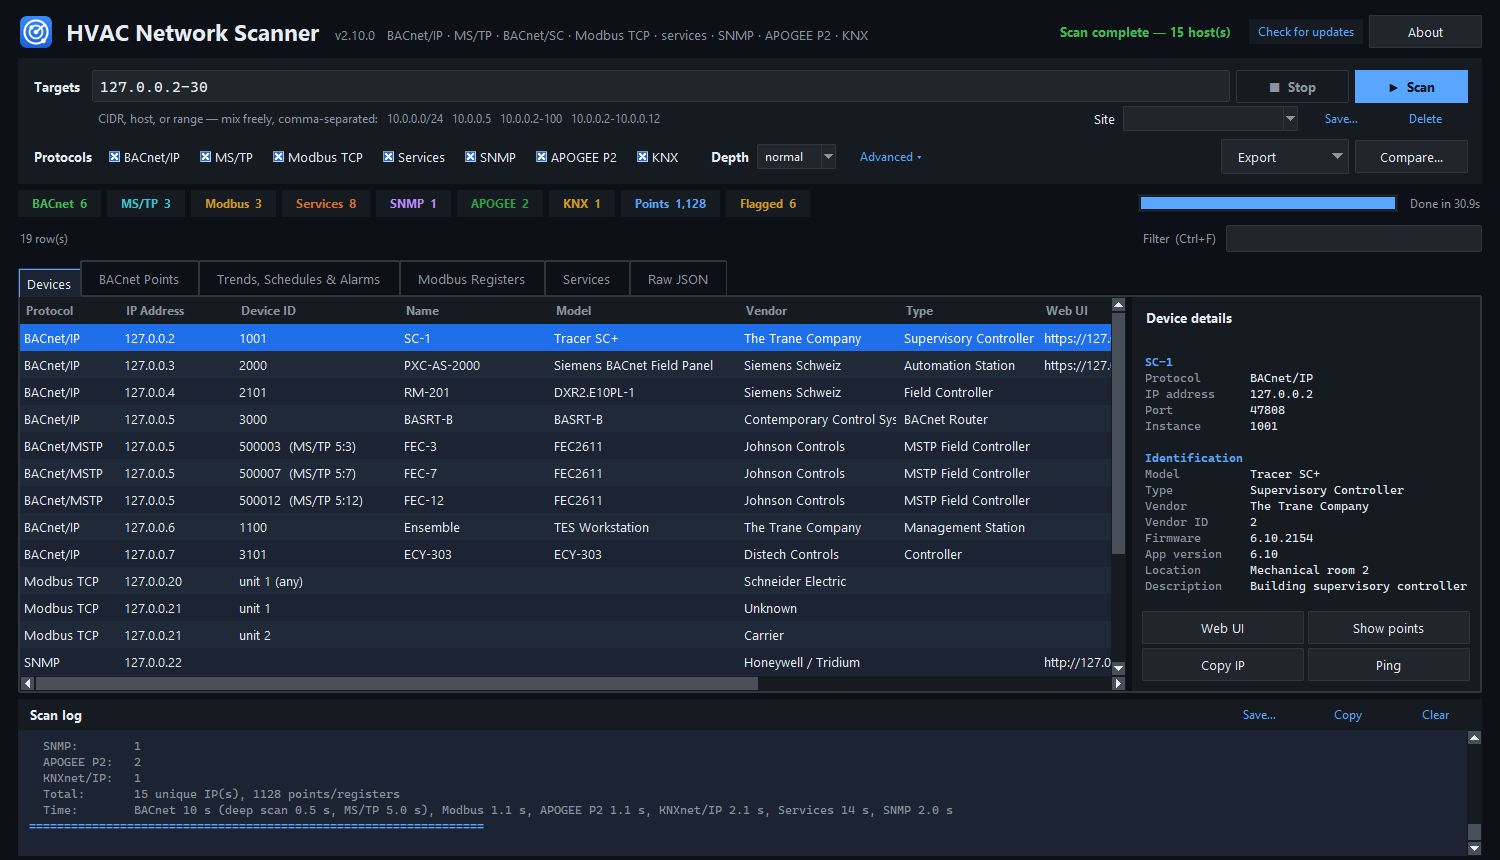
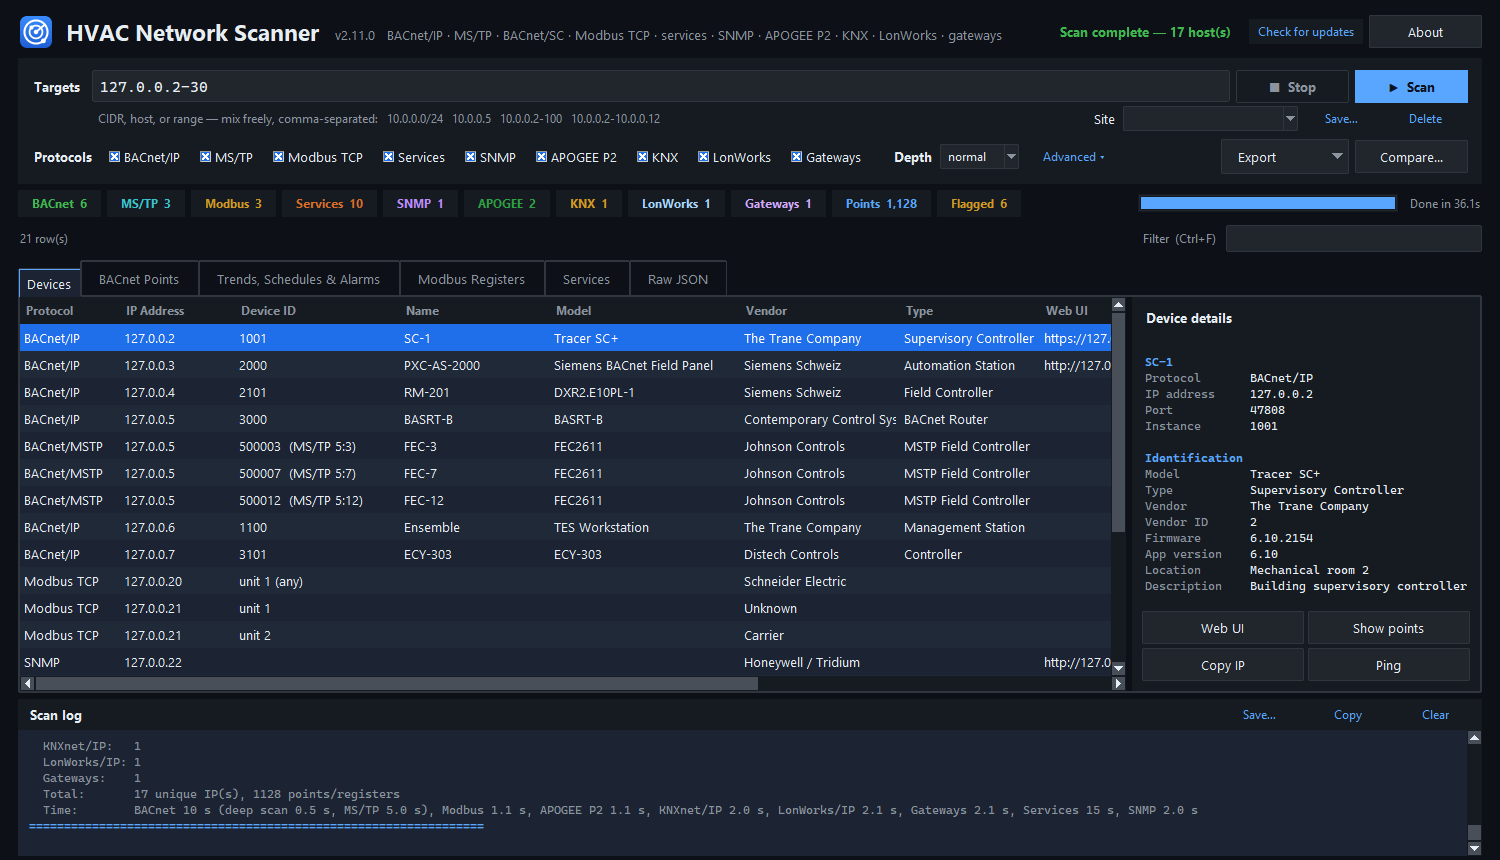
Release 2.11.0
Version bump, changelog date, README notes, site text, screenshots retaken against the simulated site.

diff --git a/site/index.html b/site/index.html
@@ -4,11 +4,11 @@
 <meta charset="utf-8">
 <meta name="viewport" content="width=device-width, initial-scale=1">
 <title>HVAC Network Scanner: find what's on a building automation network</title>
-<meta name="description" content="Free, open-source scanner for HVAC and building automation networks: BACnet/IP and MS/TP, Modbus TCP, KNX, Niagara Fox, Siemens APOGEE P2, SNMP and more. Identifies models, reads points, flags factory-default logins, and writes a survey report. Read-only by design.">
+<meta name="description" content="Free, open-source scanner for HVAC and building automation networks: BACnet/IP and MS/TP, Modbus TCP, KNX, LonWorks/IP, Niagara Fox, Siemens APOGEE P2, OPC UA, SNMP and more. Identifies models, reads points, flags factory-default logins, and writes a survey report. Read-only by design.">
 <link rel="canonical" href="https://jamesccupps.github.io/HVAC-Network-Scanner/">
 <meta property="og:type" content="website">
 <meta property="og:title" content="HVAC Network Scanner">
-<meta property="og:description" content="Find out what's on a building automation network: BACnet, Modbus, KNX, Niagara, APOGEE and more. Free and open source, read-only by design.">
+<meta property="og:description" content="Find out what's on a building automation network: BACnet, Modbus, KNX, LonWorks, Niagara, APOGEE, OPC UA and more. Free and open source, read-only by design.">
 <meta property="og:url" content="https://jamesccupps.github.io/HVAC-Network-Scanner/">
 <meta property="og:image" content="https://jamesccupps.github.io/HVAC-Network-Scanner/images/main-window.png">
 <meta name="twitter:card" content="summary_large_image">
@@ -20,7 +20,7 @@
   "@context": "https://schema.org",
   "@type": "SoftwareApplication",
   "name": "HVAC Network Scanner",
-  "description": "A multi-protocol discovery and audit tool for HVAC and building automation networks: BACnet/IP, BACnet MS/TP, BACnet/SC, Modbus TCP, KNXnet/IP, Niagara Fox, Siemens APOGEE P2, SNMP and HVAC web services.",
+  "description": "A multi-protocol discovery and audit tool for HVAC and building automation networks: BACnet/IP, BACnet MS/TP, BACnet/SC, Modbus TCP, KNXnet/IP, LonWorks/IP, Niagara Fox, Siemens APOGEE P2, OPC UA, SNMP, serial gateways and HVAC web services.",
   "url": "https://jamesccupps.github.io/HVAC-Network-Scanner/",
   "codeRepository": "https://github.com/jamesccupps/HVAC-Network-Scanner",
   "downloadUrl": "https://github.com/jamesccupps/HVAC-Network-Scanner/releases/latest",
@@ -108,7 +108,7 @@
   <div class="wrap">
     <div class="brand"><img src="images/icon-256.png" alt=""><h1>HVAC Network Scanner</h1></div>
     <p class="tagline">Find out what's on a building automation network, without changing anything on it.</p>
-    <p class="facts">BACnet/IP and MS/TP, BACnet/SC, Modbus TCP, KNXnet/IP, Niagara Fox, Siemens APOGEE P2, SNMP and the web
+    <p class="facts">BACnet/IP and MS/TP, BACnet/SC, Modbus TCP, KNXnet/IP, LonWorks/IP, Niagara Fox, Siemens APOGEE P2, OPC UA, SNMP, serial gateways and the web
       interfaces around them. It names each controller's model, reads its points, flags factory-default logins
       and writes a survey report you can hand to the building owner.</p>
     <div class="actions">
@@ -126,8 +126,8 @@
     <h2>What it finds</h2>
     <div class="grid">
       <div class="card"><h3>BACnet, all of it</h3><p>Every controller that answers a Who-Is, the MS/TP devices behind each router (also on other subnets, with no BBMD), BBMD tables, and each device's points with values, units and alarm state.</p></div>
-      <div class="card"><h3>The exact model</h3><p>Signals from every protocol combined: Trane Tracer SC+ and UC600, Siemens Desigo PXC and DXR2, Johnson Controls FEC and NAE, Niagara JACEs, Schneider, Carrier, Distech, KMC and more.</p></div>
-      <div class="card"><h3>Not just BACnet</h3><p>Modbus TCP devices and gateways with their registers, KNX IP interfaces, Niagara stations (version, host ID, brand), APOGEE P2 panels, OPC UA, S7, EtherNet/IP, MQTT, and every HVAC web interface's title and certificate.</p></div>
+      <div class="card"><h3>The exact model</h3><p>Signals from every protocol combined: Trane Tracer SC+ and UC600, Siemens PXC, Desigo PXC5 and DXR2, Johnson Controls FEC and NAE, Niagara JACEs, Schneider, Carrier, Distech, KMC and more.</p></div>
+      <div class="card"><h3>Not just BACnet</h3><p>Modbus TCP devices and gateways with their registers, KNX IP interfaces, LonWorks/IP routers, Moxa serial gateways, Niagara stations (version, host ID, brand), APOGEE P2 panels, OPC UA servers (name and security), S7, EtherNet/IP, MQTT, and every HVAC web interface's title and certificate.</p></div>
       <div class="card"><h3>Trends, schedules, alarms</h3><p>What each trend log records and whether it has stopped, each schedule's week and what it controls, and who gets each alarm: a notification class routed to no one, or to a workstation long gone, stands out.</p></div>
       <div class="card"><h3>A report for the owner</h3><p>Findings ranked by severity (factory-default logins on a reachable interface, cleartext logins, BACnet/SC or KNX gateways open to anyone, expired certificates, points in alarm), the inventory and open services, in one HTML file. Plus a point list as CSV.</p></div>
       <div class="card"><h3>What changed since last time</h3><p>Compare a scan with an earlier one: devices that appeared or went quiet, new firmware, a model or address that changed. Run it nightly from the command line and alert only on change.</p></div>
@@ -153,6 +153,9 @@
           <li><b>Modbus:</b> identification and register reads to a few unit IDs; never unit 0, never a write.</li>
           <li><b>KNX:</b> one description request, no connection.</li>
           <li><b>APOGEE P2:</b> one identify frame with a deliberately wrong network name; nothing registered.</li>
+          <li><b>LonWorks/IP:</b> one IP-852 device configuration request; nothing joined or configured.</li>
+          <li><b>Moxa gateways:</b> the identify request only, never the functions that hand out settings.</li>
+          <li><b>OPC UA:</b> the discovery exchange any client starts with; no session, nothing read.</li>
           <li><b>Web and other services:</b> connect, read the banner or <code>GET /</code>, close. Nothing logs in.</li>
         </ul>
       </div>

diff --git a/hvac_scanner/__init__.py b/hvac_scanner/__init__.py
@@ -5,7 +5,7 @@ APOGEE P2, HVAC services, SNMP.
 Zero third-party dependencies (uses only the Python standard library).
 """
 
-__version__ = "2.10.0"
+__version__ = "2.11.0"
 __author__ = "James Cupps"
 __license__ = "MIT"
 

diff --git a/README.md b/README.md
@@ -338,6 +338,27 @@ Exit codes:
 
 ## What's new
 
+### v2.11.0 (2026-11-06)
+
+More of what a building network holds, and faster on unreliable controllers.
+Full list in [CHANGELOG.md](CHANGELOG.md).
+
+- **LonWorks/IP (IP-852)**: routers and nodes on UDP 1628 report their node
+  type, name, Neuron IDs, configuration server and whether authentication
+  is on.
+- **Serial gateways**: Moxa NPort, MGate and OnCell devices, often where P1,
+  N2, MS/TP and Modbus RTU buses reach the network, found with Moxa's
+  identify request only.
+- **OPC UA identity**: the server's own name and product, and whether it
+  allows unsecured endpoints or anonymous sessions (4840 and KEPServerEX's
+  49320). Niagara platform ports are probed too.
+- **Adaptive timeout**: a controller that drops requests now costs about a
+  second per drop, not the full timeout. On one site a quick scan went from
+  3 min 39 s to 2 min 32 s and four lossy controllers from minutes to under
+  half a minute each.
+- **Accurate vendor names**: Alerton is Honeywell's; Vertiv and Copeland are
+  no longer listed as Emerson.
+
 ### v2.10.0 (2026-11-06)
 
 Tested on a real site over four rounds. Full list in

diff --git a/CHANGELOG.md b/CHANGELOG.md
@@ -5,6 +5,8 @@ Format based on [Keep a Changelog](https://keepachangelog.com/en/1.1.0/).
 
 ## [Unreleased]
 
+## [2.11.0] — 2026-11-06
+
 ### Added
 
 - **LonWorks/IP (IP-852).** A new pass (`--no-lon` to skip) asks every target for
